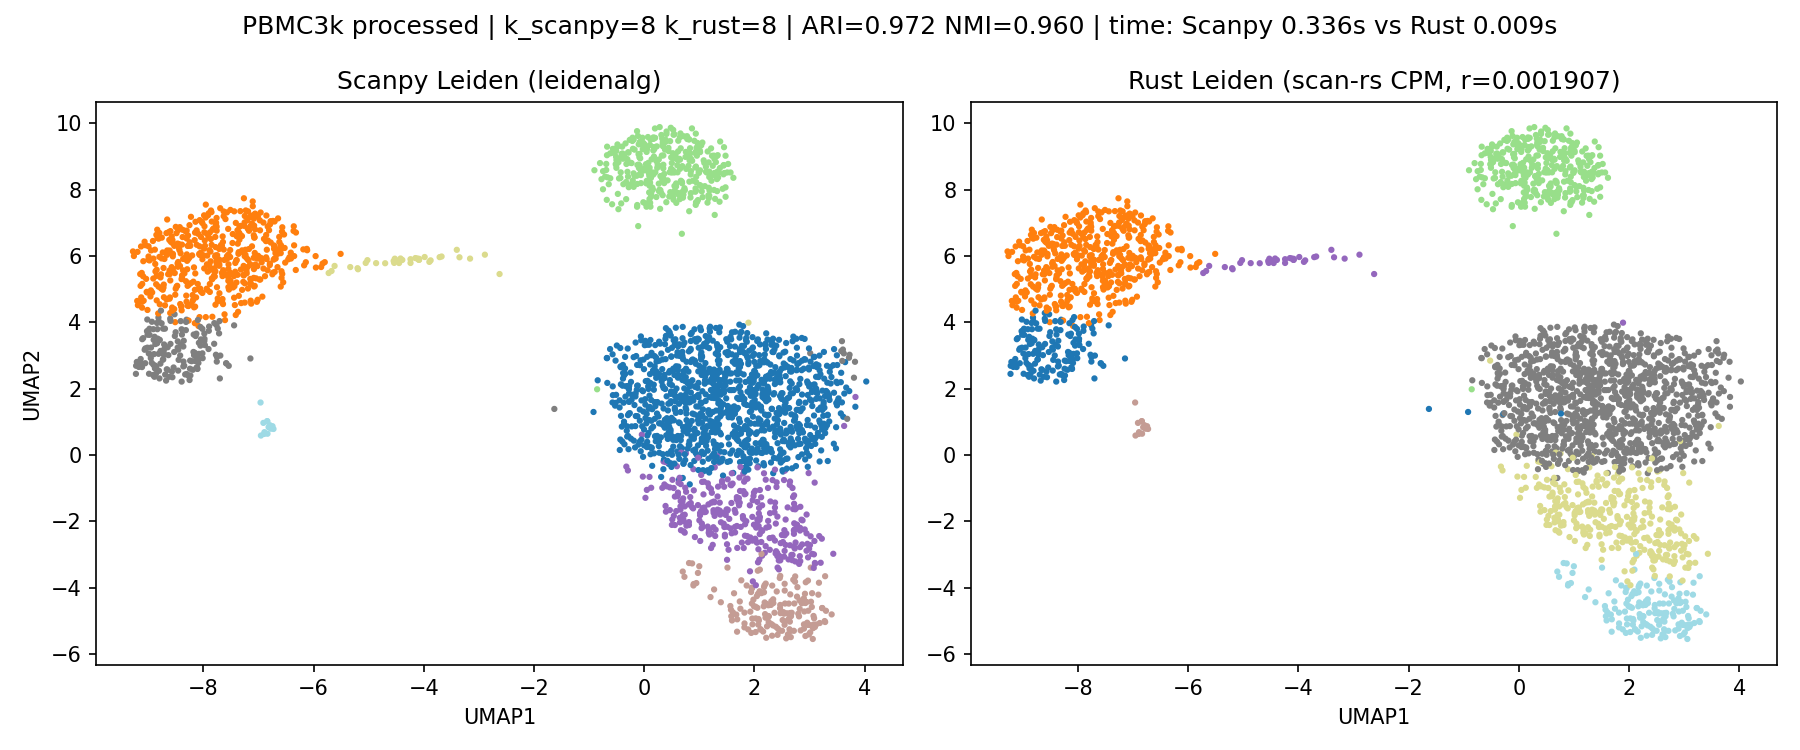
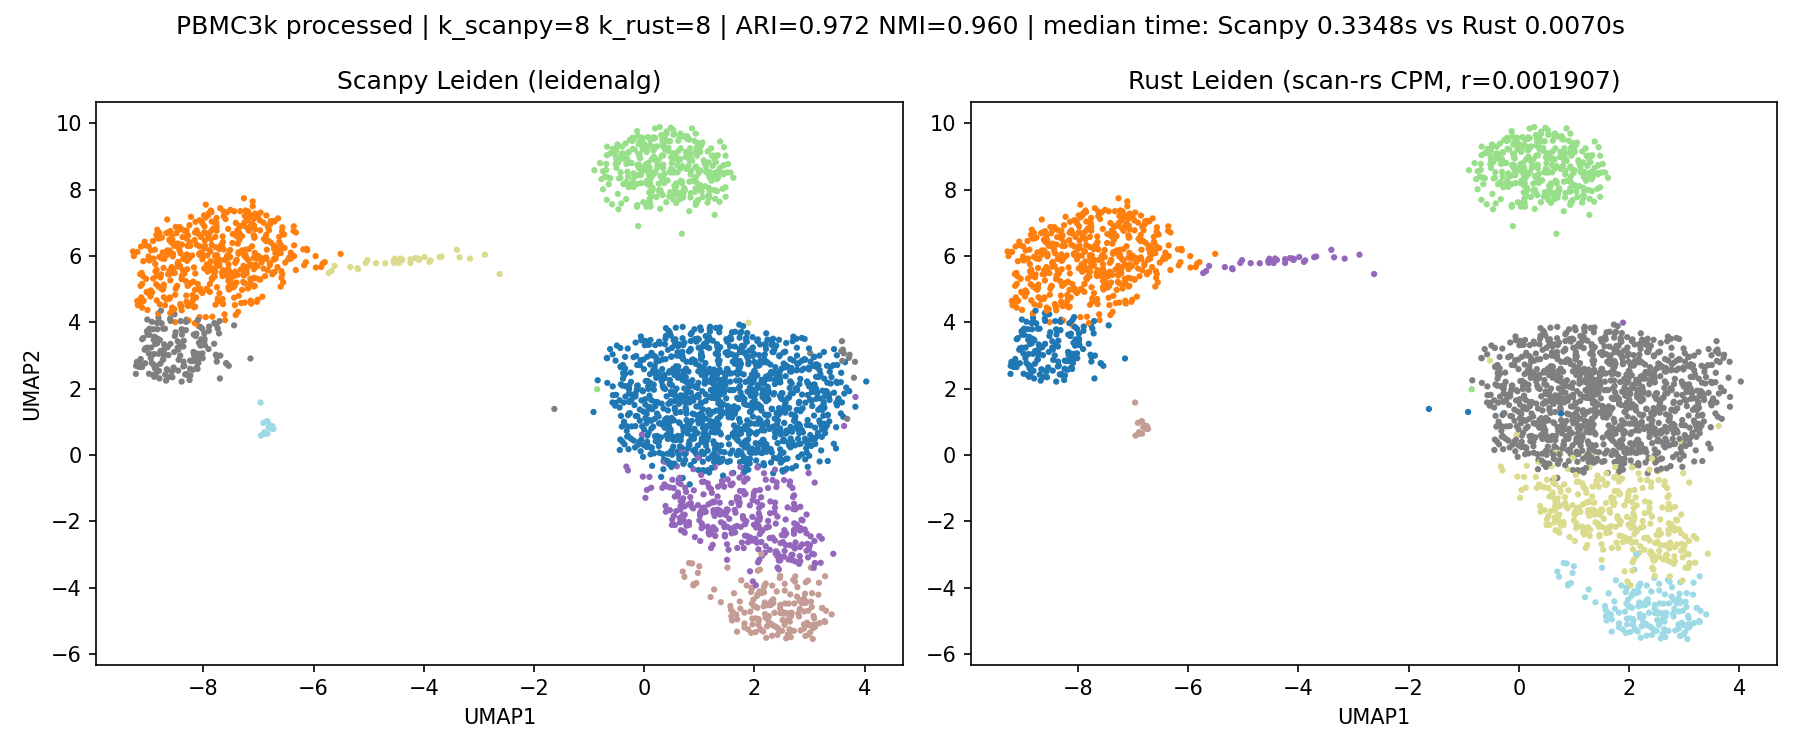
Optimize Rust Leiden vs Scanpy comparison timings
- Workspace release profile: fat LTO, codegen-units=1, strip, no debug
- create_reduced_network: FxHashMap + reserve for inter-cluster edge accumulation
- leiden-from-csr: --probe-count-only prints cluster count (fast binary search)
- compare_leiden_umap: median over repeated Scanpy/Rust runs; probe mode for search

Changed region(s): [[0.0933, 0.0, 0.9022, 0.0613]]

diff --git a/scripts/compare_leiden_umap.py b/scripts/compare_leiden_umap.py
@@ -49,15 +49,17 @@ def csr_upper_triangle(conn: sp.csr_matrix) -> sp.csr_matrix:
 
 def run_rust_leiden(
     exe: Path,
-    indptr: np.ndarray,
-    indices: np.ndarray,
-    data: np.ndarray,
+    indptr: Path,
+    indices: Path,
+    data: Path,
     n_nodes: int,
     resolution: float,
     randomness: float,
     seed: int,
     max_iter: int,
-    labels_out: Path,
+    labels_out: Path | None,
+    *,
+    probe_count_only: bool = False,
 ) -> None:
     cmd = [
         str(exe),
@@ -77,10 +79,47 @@ def run_rust_leiden(
         str(seed),
         "--max-iter",
         str(max_iter),
-        "--out-labels",
-        str(labels_out),
     ]
+    if probe_count_only:
+        cmd.append("--probe-count-only")
+    else:
+        cmd.extend(["--out-labels", str(labels_out)])
     subprocess.run(cmd, check=True, capture_output=True)
+
+
+def rust_cluster_count(
+    exe: Path,
+    td: Path,
+    n_nodes: int,
+    resolution: float,
+    randomness: float,
+    seed: int,
+    max_iter: int,
+) -> int:
+    out = subprocess.check_output(
+        [
+            str(exe),
+            "--indptr",
+            str(td / "indptr.npy"),
+            "--indices",
+            str(td / "indices.npy"),
+            "--data",
+            str(td / "data.npy"),
+            "--shape",
+            str(n_nodes),
+            "--resolution",
+            str(resolution),
+            "--randomness",
+            str(randomness),
+            "--seed",
+            str(seed),
+            "--max-iter",
+            str(max_iter),
+            "--probe-count-only",
+        ],
+        text=True,
+    )
+    return int(out.strip())
 
 
 def count_clusters_from_rust(
@@ -92,21 +131,7 @@ def count_clusters_from_rust(
     seed: int,
     max_iter: int,
 ) -> int:
-    lab = td / "probe_labels.npy"
-    run_rust_leiden(
-        exe,
-        td / "indptr.npy",
-        td / "indices.npy",
-        td / "data.npy",
-        n_nodes,
-        resolution,
-        randomness,
-        seed,
-        max_iter,
-        lab,
-    )
-    y = np.load(lab)
-    return int(len(np.unique(y)))
+    return rust_cluster_count(exe, td, n_nodes, resolution, randomness, seed, max_iter)
 
 
 def binary_search_rust_resolution(
@@ -176,6 +201,18 @@ def main():
         default="leidenalg",
         help="Scanpy Leiden backend",
     )
+    ap.add_argument(
+        "--rust-timing-repeats",
+        type=int,
+        default=7,
+        help="Median Rust timing uses this many runs of the final clustering (after resolution search)",
+    )
+    ap.add_argument(
+        "--scanpy-timing-repeats",
+        type=int,
+        default=7,
+        help="Median Scanpy timing uses this many runs",
+    )
     args = ap.parse_args()
 
     sc.settings.verbosity = 1
@@ -188,12 +225,15 @@ def main():
     g = csr_upper_triangle(conn)
     n_nodes = adata.n_obs
 
-    t0 = time.perf_counter()
-    kw = dict(resolution=args.resolution, key_added="leiden_scanpy", flavor=args.flavor)
-    if args.flavor == "igraph":
-        kw["n_iterations"] = 2
-    sc.tl.leiden(adata, **kw)
-    t_scanpy = time.perf_counter() - t0
+    scanpy_times = []
+    for _ in range(max(1, args.scanpy_timing_repeats)):
+        t0 = time.perf_counter()
+        kw = dict(resolution=args.resolution, key_added="leiden_scanpy", flavor=args.flavor)
+        if args.flavor == "igraph":
+            kw["n_iterations"] = 2
+        sc.tl.leiden(adata, **kw)
+        scanpy_times.append(time.perf_counter() - t0)
+    t_scanpy = float(np.median(np.array(scanpy_times, dtype=np.float64)))
 
     k_target = int(adata.obs["leiden_scanpy"].astype("category").cat.categories.size)
 
@@ -238,20 +278,25 @@ def main():
             )
 
         lab_rust = td / "labels_rust_final.npy"
-        t0 = time.perf_counter()
-        run_rust_leiden(
-            exe,
-            td / "indptr.npy",
-            td / "indices.npy",
-            td / "data.npy",
-            n_nodes,
-            r_rust,
-            args.randomness,
-            args.seed,
-            args.max_iter,
-            lab_rust,
-        )
-        t_rust = time.perf_counter() - t0
+        rust_times = []
+        n_rep = max(1, args.rust_timing_repeats)
+        for rep in range(n_rep):
+            t0 = time.perf_counter()
+            run_rust_leiden(
+                exe,
+                td / "indptr.npy",
+                td / "indices.npy",
+                td / "data.npy",
+                n_nodes,
+                r_rust,
+                args.randomness,
+                args.seed,
+                args.max_iter,
+                lab_rust,
+                probe_count_only=False,
+            )
+            rust_times.append(time.perf_counter() - t0)
+        t_rust = float(np.median(np.array(rust_times, dtype=np.float64)))
         labels_rust = np.load(lab_rust)
 
     leid = adata.obs["leiden_scanpy"].astype("category")
@@ -280,7 +325,7 @@ def main():
     axes[0].set_ylabel("UMAP2")
     fig.suptitle(
         "PBMC3k processed | k_scanpy={} k_rust={} | ARI={:.3f} NMI={:.3f} | "
-        "time: Scanpy {:.3f}s vs Rust {:.3f}s".format(
+        "median time: Scanpy {:.4f}s vs Rust {:.4f}s".format(
             k_target, k_rust, ari, nmi, t_scanpy, t_rust
         )
     )
@@ -292,8 +337,12 @@ def main():
         n_nodes, g.nnz, args.resolution
     ))
     print("  Rust CPM resolution used: {:.8g} (Scanpy res stays {:.4g})".format(r_rust, args.resolution))
-    print("  Scanpy Leiden wall time: {:.6f} s".format(t_scanpy))
-    print("  Rust Leiden wall time:   {:.6f} s".format(t_rust))
+    print("  Scanpy Leiden median wall time: {:.6f} s ({} runs)".format(
+        t_scanpy, max(1, args.scanpy_timing_repeats)
+    ))
+    print("  Rust Leiden median wall time:   {:.6f} s ({} runs)".format(
+        t_rust, max(1, args.rust_timing_repeats)
+    ))
     print("  Clusters: Scanpy {} | Rust {}".format(k_target, k_rust))
     print("  Adjusted Rand Index:     {:.6f}".format(ari))
     print("  NMI:                     {:.6f}".format(nmi))

diff --git a/rust/leiden-tools/src/main.rs b/rust/leiden-tools/src/main.rs
@@ -8,7 +8,7 @@ fn usage() -> ! {
     eprintln!(
         "Usage: leiden-from-csr --indptr P --indices P --data P --shape N \\
           [--resolution R] [--randomness R] [--seed N] [--max-iter I] \\
-          --out-labels P.npy"
+          [--probe-count-only] [--out-labels P.npy]"
     );
     std::process::exit(2);
 }
@@ -27,6 +27,8 @@ fn load_f64(path: &Path) -> Array1<f64> {
 
 fn main() {
     let args: Vec<String> = env::args().collect();
+    let probe_only = args.iter().any(|a| a == "--probe-count-only");
+
     let mut indptr_p: Option<String> = None;
     let mut indices_p: Option<String> = None;
     let mut data_p: Option<String> = None;
@@ -88,6 +90,9 @@ fn main() {
                 out_p = Some(args.get(i + 1).cloned().unwrap_or_default());
                 i += 2;
             }
+            "--probe-count-only" => {
+                i += 1;
+            }
             _ => {
                 eprintln!("Unknown arg: {}", args[i]);
                 usage();
@@ -98,7 +103,12 @@ fn main() {
     let indptr_p = indptr_p.as_ref().map(Path::new).expect("need --indptr");
     let indices_p = indices_p.as_ref().map(Path::new).expect("need --indices");
     let data_p = data_p.as_ref().map(Path::new).expect("need --data");
-    let out_labels = out_p.as_ref().map(Path::new).expect("need --out-labels");
+    let out_labels = out_p.as_ref().map(Path::new);
+
+    if !probe_only && out_labels.is_none() {
+        eprintln!("need --out-labels");
+        usage();
+    }
 
     if n_nodes == 0 {
         eprintln!("need --shape N");
@@ -144,6 +154,14 @@ fn main() {
     for i in 0..network.nodes() {
         labels.push(clustering.get(i) as i64);
     }
+
+    if probe_only {
+        use std::collections::HashSet;
+        let n = labels.iter().collect::<HashSet<_>>().len();
+        println!("{}", n);
+        return;
+    }
+
     let arr = ndarray::Array1::from_vec(labels);
-    ndarray_npy::write_npy(out_labels, &arr).expect("write labels");
+    ndarray_npy::write_npy(out_labels.unwrap(), &arr).expect("write labels");
 }

diff --git a/rust/leiden/src/network.rs b/rust/leiden/src/network.rs
@@ -1,8 +1,8 @@
 use crate::graph::{Edges, UnGraph};
 use crate::Clustering;
+use fxhash::FxHashMap;
 use rayon::prelude::{IndexedParallelIterator, ParallelIterator};
 use rayon::slice::ParallelSlice;
-use std::collections::HashMap;
 
 /// Undirected graph with f32 node weights and f32 edge weights. Used to represent the network being clustered.
 pub type Graph = UnGraph<f32, f32, u32>;
@@ -145,7 +145,9 @@ impl Network {
             *cluster_node_weight += self.graph.node_weight(n).unwrap();
         }
 
-        let mut edge_memo = HashMap::new();
+        let est_pairs = (self.graph.edge_count() / 2).max(clustering.num_clusters());
+        let mut edge_memo: FxHashMap<(u32, u32), f32> = FxHashMap::default();
+        edge_memo.reserve(est_pairs);
 
         for e in self.graph.edge_references() {
             let c1 = clustering.get(e.source().index() as usize) as u32;
